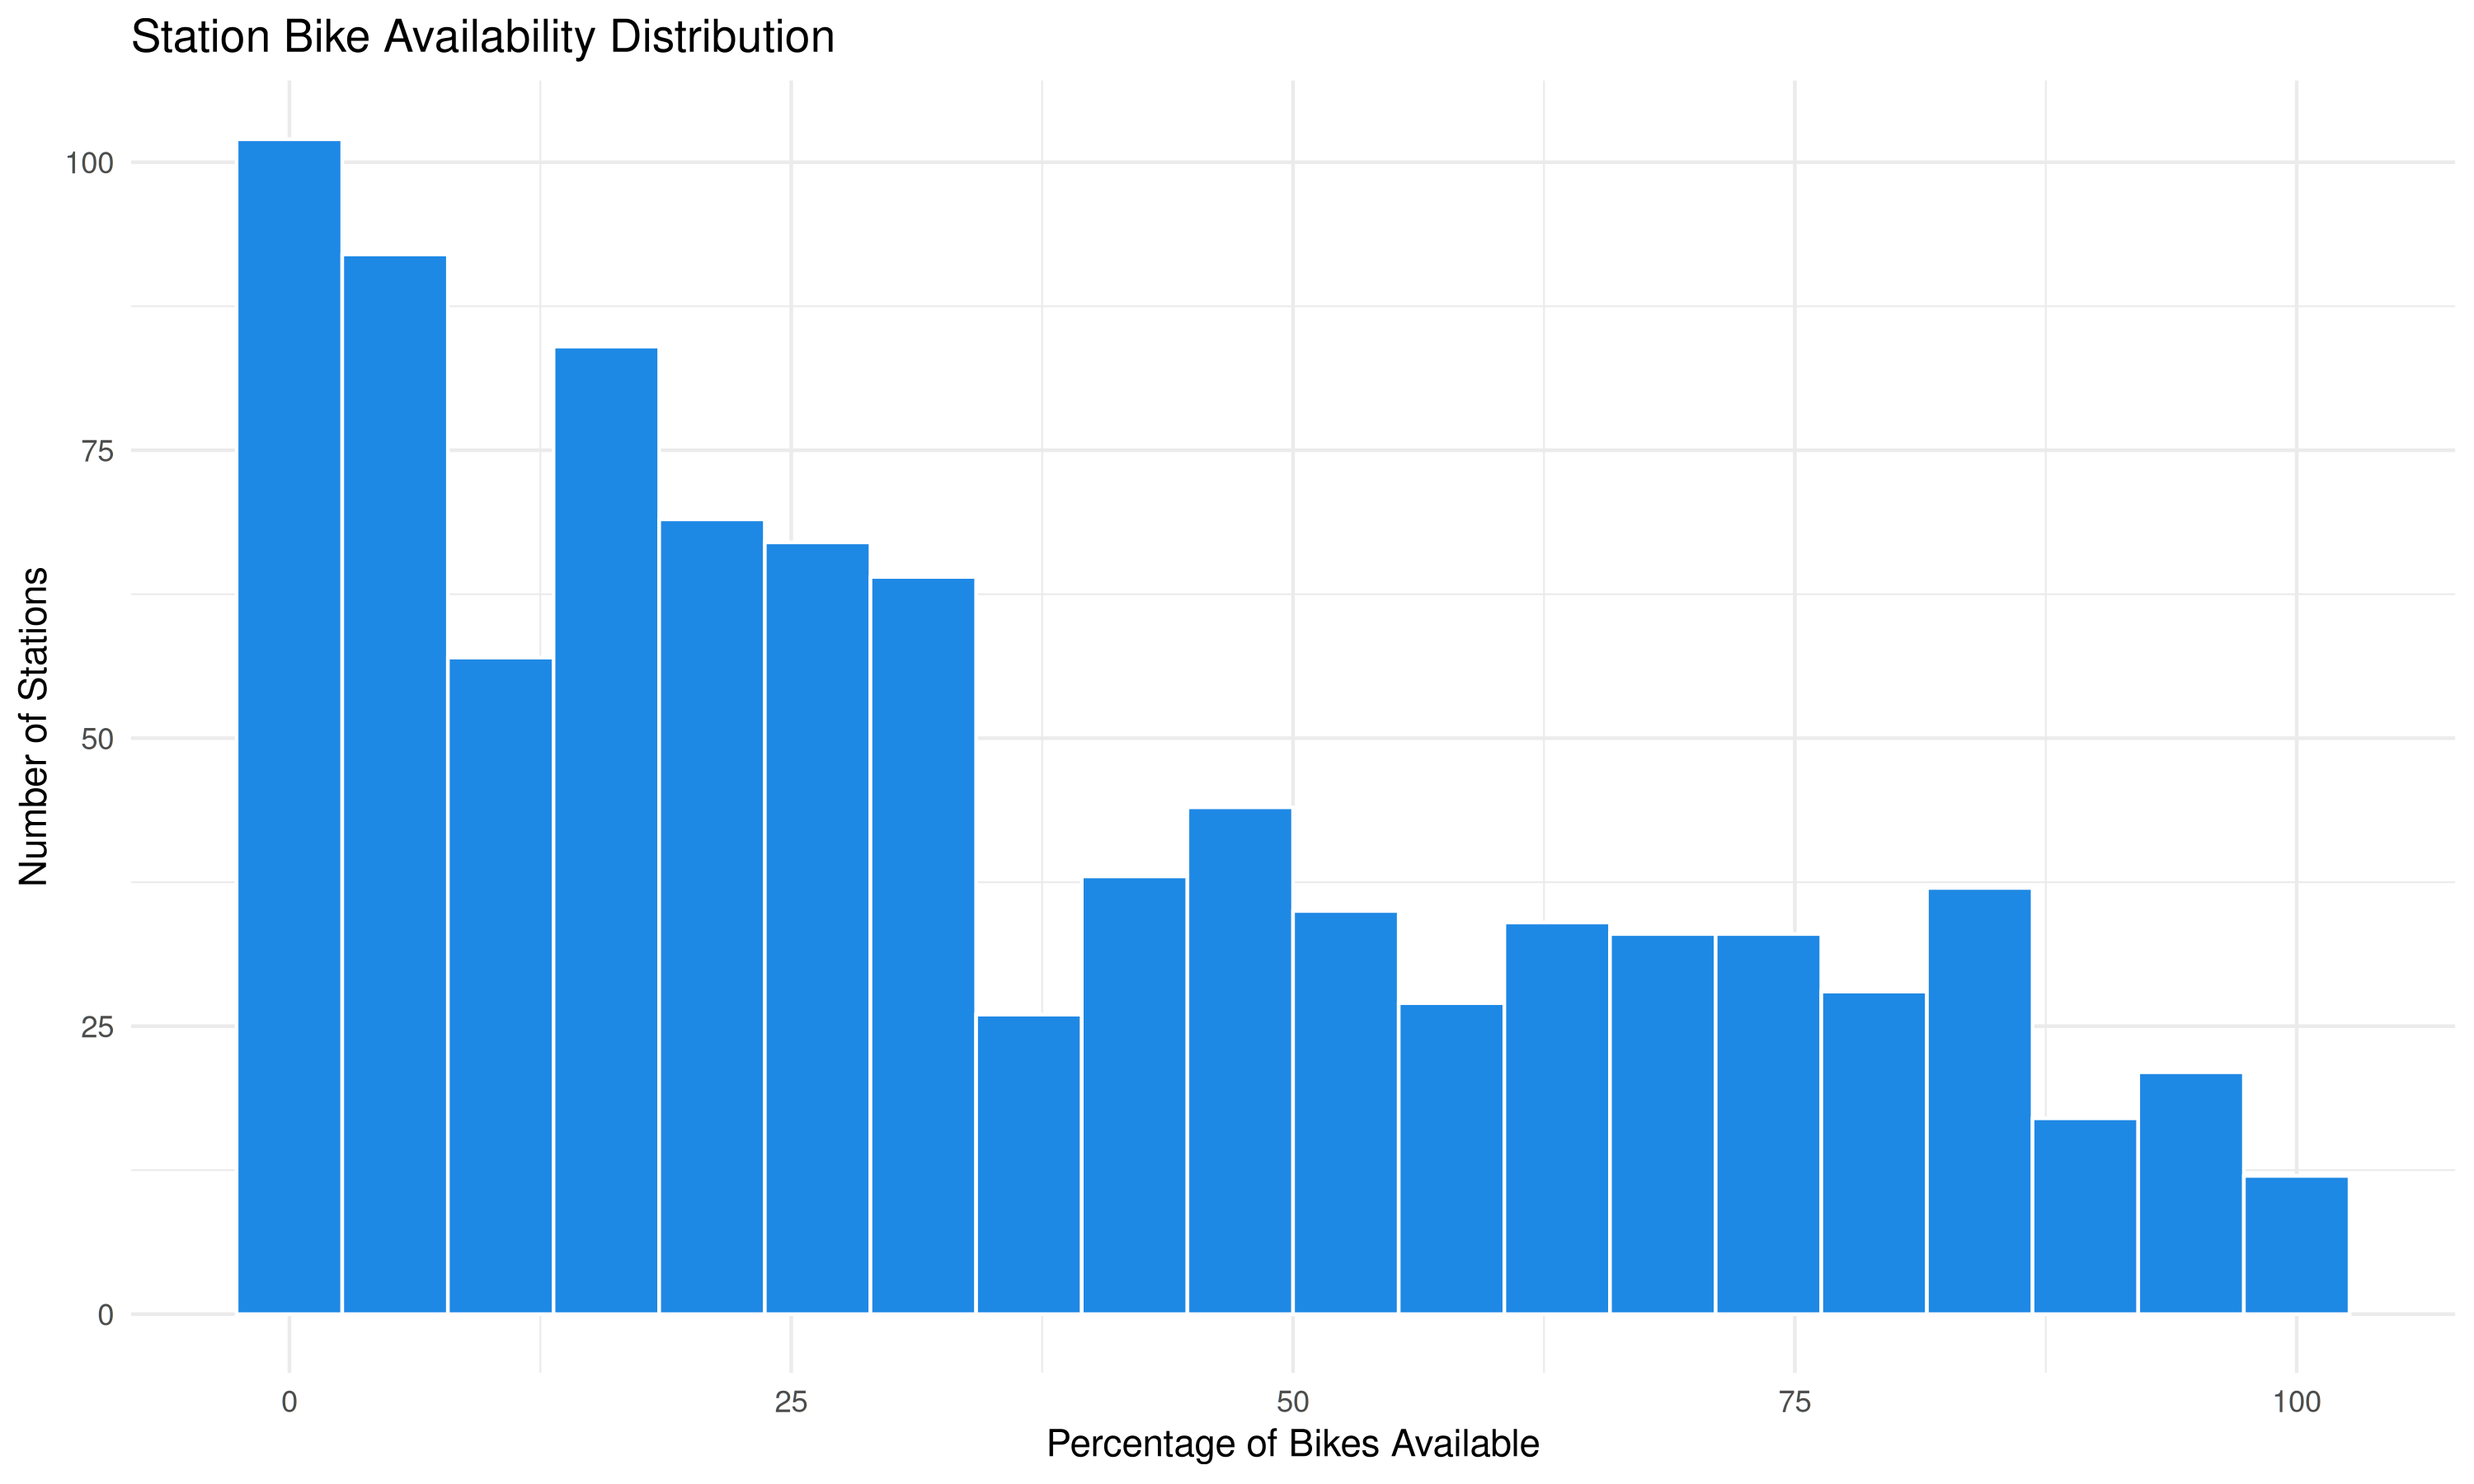
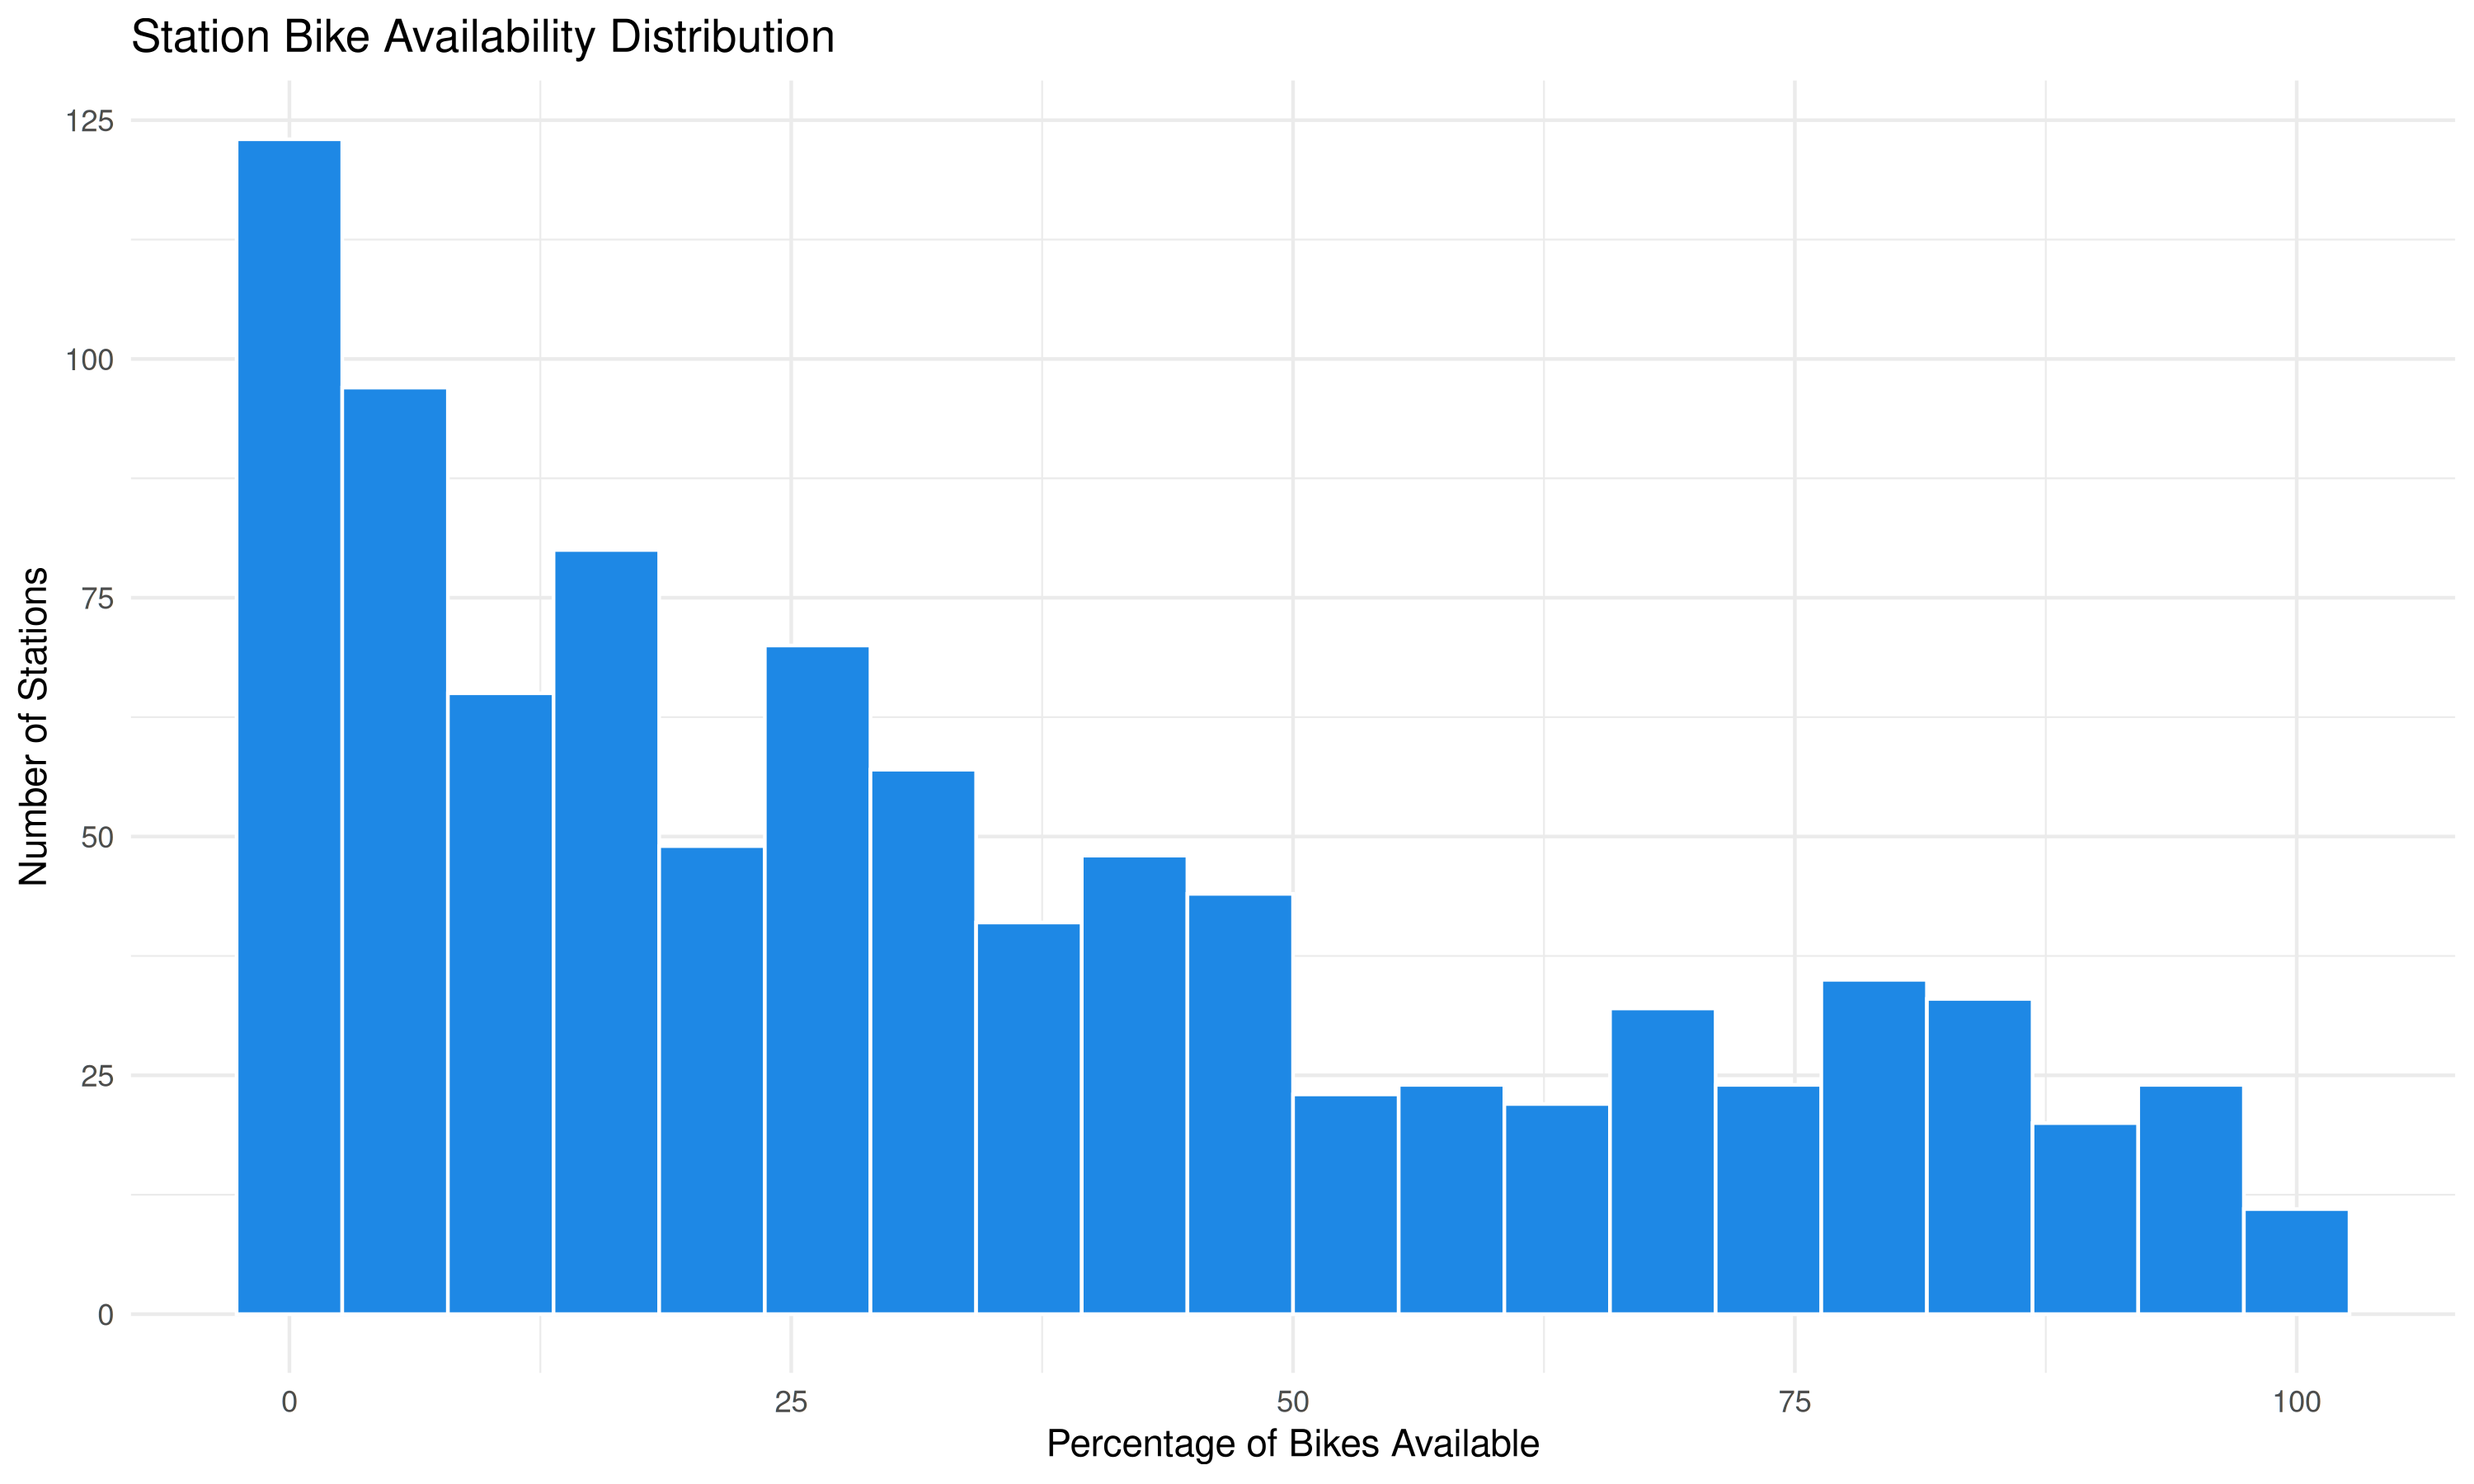
Update bike share dashboard (#28)

diff --git a/README.md b/README.md
@@ -1,51 +1,53 @@
 # 🚲 Toronto Bike Share Analytics
 
-Updated: 2025-07-06 23:14 (Toronto Time)
+Updated: 2025-07-07 20:36 (Toronto Time)
 
 ## 📊 System Overview
-- **Total bikes available:** 6,327
-- **Total docks available:** 10,109
-- **System utilization rate:** 38.5%
-- **Active stations:** 920/920 (100%)
-- **Average bikes per station:** 6.9
-- **Median station capacity:** 19
-- **Empty stations:** 100 (10.9%)
-- **Full stations:** 41 (4.5%)
+| Metric | Value | Change |
+|--------|-------|--------|
+| **Total bikes available** | 6,062 | N/A |
+| **Total docks available** | 10,354 | N/A |
+| **System utilization rate** | 36.9% | N/A |
+| **Active stations** | 922/922 (100%) | N/A |
+| **Average bikes per station** | 6.6 | N/A |
+| **Median station capacity** | 19 | - |
+| **Empty stations** | 123 (13.3%) | N/A |
+| **Full stations** | 58 (6.3%) | N/A |
 
 ## 🏆 Top 10 Stations by Bike Availability
 | Station | Bikes Available | Capacity |
 |---------|-----------------|----------|
-| Frederick St / King St E | 44 | 47 |
-| 2700 Eglinton Ave W | 34 | 43 |
-| Bloor St W / Shaw St - SMART | 33 | 34 |
-| Dundas St W / Crawford St | 31 | 47 |
-| Fort York  Blvd / Capreol Ct | 30 | 47 |
-| King St E / Berkeley St | 29 | 31 |
-| Centre Island Ferry Dock | 29 | 35 |
-| Queen St W / Ossington Ave | 28 | 31 |
-| 365 Lippincott St | 28 | 41 |
-| Niagara St / Richmond St W | 27 | 42 |
+| Frederick St / King St E | 42 | 47 |
+| 144 Harrison St | 40 | 51 |
+| Hanlan's Point Ferry Dock | 36 | 39 |
+| 2700 Eglinton Ave W | 33 | 43 |
+| Hanna Ave / Liberty St | 29 | 32 |
+| Temperance St Station | 28 | 55 |
+| Front St W / Yonge St (Hockey Hall of Fame) | 28 | 47 |
+| Bathurst St/Queens Quay(Billy Bishop Airport) | 28 | 34 |
+| Western Battery Rd / Pirandello St | 28 | 29 |
+| Simcoe St / Queen St W | 27 | 39 |
 
 ## 🏆 Top 10 Stations by Dock Availability
 | Station | Docks Available | Capacity |
 |---------|-----------------|----------|
-| Temperance St Station | 53 | 55 |
-| Bay St / Albert St | 52 | 63 |
-| York St / Queens Quay W | 47 | 57 |
-| Wellington St W / Bay St | 46 | 55 |
-| Cherry Beach | 46 | 49 |
-| Simcoe St / Pullan Pl | 43 | 47 |
-| Hanlan's Point Beach | 42 | 47 |
-| Front St W / Yonge St (Hockey Hall of Fame) | 40 | 47 |
-| Bloor St W / Manning Ave - SMART | 40 | 42 |
-| Humber Bay Shores Park / Marine Parade Dr | 39 | 63 |
+| Bay St / Albert St | 53 | 63 |
+| Wellington St W / Bay St | 51 | 55 |
+| Bay St / Dundas St W | 50 | 55 |
+| Simcoe St / Pullan Pl | 45 | 47 |
+| York St / Queens Quay W | 44 | 57 |
+| Bloor St W / Manning Ave - SMART | 42 | 42 |
+| Fort York  Blvd / Capreol Ct | 41 | 47 |
+| Queens Quay / Yonge St | 40 | 46 |
+| Humber Bay Shores Park / Marine Parade Dr | 40 | 63 |
+| 439 Sherbourne St | 39 | 47 |
 
 ## 📊 Station Status Distribution
 | Status     | Number of Stations |
 |------------|-------------------:|
-| Empty      | 100 |
-| Full       | 41 |
-| Available  | 779 |
+| Empty      | 123 |
+| Full       | 58 |
+| Available  | 741 |
 
 ## 📍 Bike Locations
 ![Bike Locations](docs/plots/location_plot.png)
@@ -70,8 +72,8 @@ The data is collected from the Toronto Bike Share GBFS API at a single point in 
 
 ### Statistical Notes
 - The distribution of bikes across stations follows a right-skewed distribution
-- The mean availability is 35.4% with a standard deviation of 28.7%
-- The system is currently operating at 38% capacity
+- The mean availability is 34% with a standard deviation of 29%
+- The system is currently operating at 37% capacity
 
 ## ℹ Data Source
 Data is sourced from the [Toronto Bike Share GBFS API](https://tor.publicbikesystem.net/ube/gbfs/v1/en/station_status)
